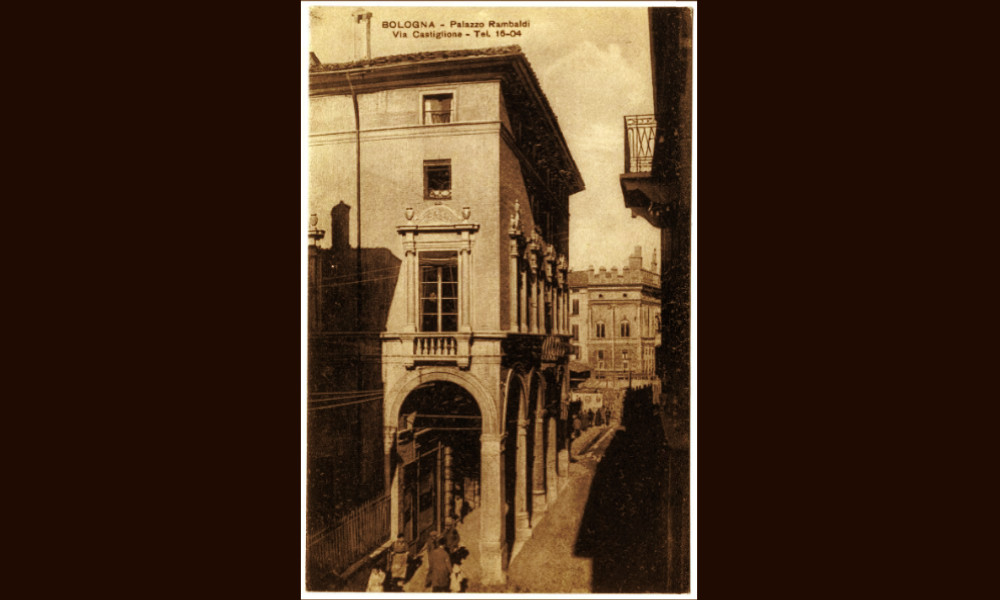
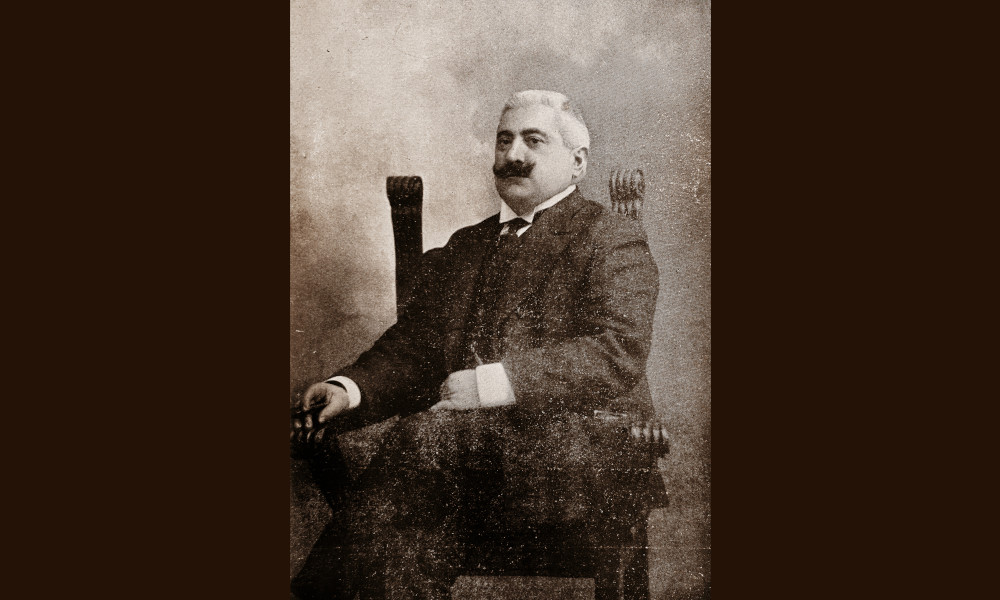
DIDASCALIE fix

diff --git a/html/dettaglio_DI_I.html b/html/dettaglio_DI_I.html
@@ -1,0 +1,183 @@
+<!DOCTYPE html>
+<html lang="it">
+  <head>
+    <meta charset="UTF-8" />
+    <meta name="viewport" content="width=device-width, initial-scale=1.0" />
+    <title>Di Castro Eugenio | Mercato dell'arte</title>
+    <meta name="description" content="Di Castro Eugenio: scheda dell'entità antiquariale nel progetto Mercato dell'arte della Fondazione Federico Zeri." />
+    <link rel="preconnect" href="https://fonts.googleapis.com" />
+    <link rel="preconnect" href="https://fonts.gstatic.com" crossorigin="" />
+    <link href="https://fonts.googleapis.com/css2?family=Playfair+Display:ital,wght@0,400;0,600;0,700;1,400&family=DM+Sans:ital,wght@0,300;0,400;0,500;0,600;1,300;1,400&display=swap" rel="stylesheet" />
+    <link rel="stylesheet" href="https://unpkg.com/leaflet@1.7.1/dist/leaflet.css" />
+    <link rel="stylesheet" href="https://unpkg.com/leaflet.markercluster/dist/MarkerCluster.css" />
+    <link rel="stylesheet" href="https://unpkg.com/leaflet.markercluster/dist/MarkerCluster.Default.css" />
+    <link rel="stylesheet" href="../../css/tokens.css" />
+    <link rel="stylesheet" href="../../css/styles-dettaglioAntiquario.css" />
+    <script type="text/javascript" src="https://cdn.jsdelivr.net/npm/jquery@3.2.1/dist/jquery.min.js"></script>
+    <script type="text/javascript" src="https://unpkg.com/leaflet@1.7.1/dist/leaflet.js"></script>
+    <script type="text/javascript" src="https://unpkg.com/leaflet.markercluster/dist/leaflet.markercluster.js"></script>
+    <script src="../../script/menu.js" defer=""></script>
+    <script type="text/javascript" src="../../script/galleria.js"></script>
+    <script type="text/javascript" src="../../script/albero-familiare.js"></script>
+    <script type="text/javascript" src="../../script/dettaglioAntiquari.js"></script>
+    <script type="text/javascript" src="../../script/mappaDettaglio.js"></script>
+  </head>
+  <body>
+    <header>
+      <div class="header-container">
+        <a class="marchio" href="../../index.html">Mercato dell'arte</a>
+        <button class="menu-toggle" type="button" aria-label="Apri menu">&#9776;</button>
+        <div class="testata-destra">
+          <nav>
+            <ul class="menu">
+              <li>
+                <a href="../progetto.html">Progetto</a>
+              </li>
+              <li>
+                <a href="../antiquari.html">Antiquari</a>
+              </li>
+              <li>
+                <a href="../luoghi.html">Luoghi</a>
+              </li>
+              <li>
+                <a href="../eventi.html">Eventi</a>
+              </li>
+              <li>
+                <a href="../persone.html">Persone</a>
+              </li>
+              <li>
+                <a href="../bibliografia.html">Bibliografia</a>
+              </li>
+            </ul>
+          </nav>
+          <span class="testata-filo"></span>
+          <a class="testata-ente" href="https://fondazionezeri.unibo.it/it/homepage" target="_blank" rel="noopener" title="Fondazione Federico Zeri, Università di Bologna">
+            <img src="../../img/homepage/logo.png" alt="Fondazione Federico Zeri" />
+          </a>
+        </div>
+      </div>
+    </header>
+    <main class="scheda">
+      <div class="scheda-torna">
+        <a href="../antiquari.html">&#8592; Tutti gli antiquari</a>
+      </div>
+      <section class="scheda-fascia">
+        <div class="scheda-fascia-testo">
+          <h1 class="scheda-nome">Di Castro Eugenio</h1>
+          <p class="scheda-sottotitolo">Roma, entità attiva dal 1932 al 2006</p>
+        </div>
+        <div class="slider-container">
+          <div class="slider">
+            <div class="slide">
+              <img src="../../img/slider-antiquari/DI_I_img1.jpg" alt="L'antiquario &quot;romanista&quot; Eugenio Di Castro negli anni Sessanta" />
+              <div class="caption">L'antiquario "romanista" Eugenio Di Castro negli anni Sessanta</div>
+            </div>
+            <div class="slide">
+              <img src="../../img/slider-antiquari/DI_I_img2.jpg" alt="Il ministro del turismo Folchi saluta Eugenio Di Castro" />
+              <div class="caption">Il ministro del turismo Folchi saluta Eugenio Di Castro</div>
+            </div>
+          </div>
+          <button class="prev" type="button" aria-label="Fotografia precedente">&#10094;</button>
+          <button class="next" type="button" aria-label="Fotografia successiva">&#10095;</button>
+          <button class="gal-zoom" type="button" aria-label="Ingrandisci la fotografia">
+            <svg viewBox="0 0 24 24" fill="none" stroke="currentColor" stroke-width="2" stroke-linecap="round" aria-hidden="true"><circle cx="11" cy="11" r="7"></circle><path d="M20 20l-4.3-4.3M11 8v6M8 11h6"></path></svg>
+          </button>
+        </div>
+      </section>
+      <section class="scheda-dati">
+        <dl class="scheda-record">
+          <dt>PERSONE</dt>
+          <dd>Eugenio Di Castro, 1890–1976, antiquario<br>Nicola Di Castro, antiquario<br>Angelo Di Castro, antiquario<br>Angelo Di Castro, 1925–2012, antiquario</dd>
+          <dt>IN CATALOGO</dt>
+          <dd><a href="https://catalogo.fondazionezeri.unibo.it/ricerca.v2.jsp?decorator=layout_resp&apply=true&percorso_ricerca=OA&sortby=LOCALIZZAZIONE&batch=10&view=list&locale=it&PVCS_PVCR_PVCP_PVCC_PVCL_LDCN_PRVS_PRVR_PRVP_PRVC_PRVL_PRCD=Di%20Castro&page=1&filtroprovenienza_OA=4531%7C8268" class="linkBio" target="_blank">Opere transitate, catalogo della Fondazione Zeri &#8594;</a></dd>
+        </dl>
+      </section>
+      <nav class="scheda-tab" aria-label="Sezioni della scheda">
+        <button class="tab active" type="button" data_content="Bio">
+          Dati biografici
+        </button>
+        <button class="tab" type="button" data_content="Persone">
+          Albero familiare
+          <span class="tab-num">3</span>
+        </button>
+        <button class="tab" type="button" data_content="Localizzazioni">
+          Luoghi
+          <span class="tab-num">4</span>
+        </button>
+        <button class="tab" type="button" data_content="Relazioni">
+          Relazioni
+          <span class="tab-num">1</span>
+        </button>
+        <button class="tab" type="button" data_content="Eventi">
+          Eventi
+          <span class="tab-num">1</span>
+        </button>
+        <button class="tab" type="button" data_content="Bibliografia">
+          Bibliografia
+          <span class="tab-num">2</span>
+        </button>
+      </nav>
+      <div class="scheda-contenuto">
+        <div id="Bio" class="content active-content">
+          <p>Eugenio Di Castro (1890-1976) nacque a Roma, in Trastevere, e apprese il mestiere di antiquario dal padre Nicola e dal nonno Angelo. Richiamato nel 1910, prese parte alla guerra italo-turca e combatté nella Prima Guerra mondiale. Tornato a Roma nel 1920, poté riprendere a tempo pieno la sua attività di mercante d’arte, con un negozio prima in via dei Greci, poi in via del Babuino 82. Nel corso degli anni successivi, strinse rapporti con molti degli intellettuali e artisti che animavano il Circolo Artistico di via Margutta e il celebre caffè Greco di via Condotti, entrando poi a far parte del Gruppo dei Romanisti, fondato nel 1929. Il Gruppo, dedito allo studio e alla valorizzazione della città di Roma e della romanità, si riuniva proprio nello studio di uno dei suoi fondatori, l’antiquario Augusto Jandolo, nella stessa via Margutta. Con quest’ultimo, Di Castro strinse un’amicizia molto stretta, tanto da essere ricordato come un compagno fraterno “anima di artista, cuore di romano autentico” nel volume di memorie “Aneddotica” pubblicato da Jandolo nel 1949.</p>
+          <p>Nel 1932 Eugenio Di Castro trasferì l’attività al civico 92 a/b della stessa via del Babuino, nel palazzo che il mosaicista Giacomo Raffaelli aveva fatto progettare a Giuseppe Valadier e negli ambienti per anni occupati dalla galleria degli Jandolo. Il contesto vivacemente colto e cosmopolita in cui era inserito lo mise in contatto con personaggi di alto rango, dalla Famiglia Reale italiana a Gabriele D’Annunzio.</p>
+          <p>L’attenzione verso la città di Roma, si manifestò, lungo tutta la sua esistenza, con numerose donazioni di dipinti, sculture e oggetti d’arte, operate in favore di Palazzo Braschi, Palazzo Venezia, il Museo degli strumenti musicali e tante altre raccolte cittadine. Fu tra i fondatori dell’Associazione Amici dei Musei di Roma, continuando a collaborare come consigliere per tutta la vita.</p>
+          <p>Scrisse “Ricordi dei vecchi rioni romani” e l’autobiografia “Una vita”, oltre a numerosi articoli per la “Strenna dei Romanisti”, “L’Urbe” e il “Bollettino dei Musei di Roma”, quasi tutti dedicati al mondo dell’antiquariato, con particolare predilezione per il Rinascimento considerato in tutti i suoi aspetti, dal mobile intarsiato al parato ricamato, dal bronzo al vetro soffiato, elementi questi che gli permisero di ricevere premi in diverse mostre, come quella allestita nel Castello di Zagarolo dalla principessa Pallavicini nel 1964 o in quella dedicata agli strumenti musicali organizzata dall’Accademia di santa Cecilia a via del Babuino nel 1963. Altro interesse particolare fu il Settecento romano, interesse poi trasmesso anche al figlio Angelo.</p>
+          <p>Dopo la morte di Eugenio, i figli Nicola ed Angelo continuarono l’attività paterna. Angelo Di Castro (Roma, 1925–2012) aprì successivamente un’attività in proprio con la moglie Lucilla nella galleria di via Alibert 20-23, nello stesso Palazzo Raffaelli, che fu assiduamente frequentata anche da Federico Zeri. La galleria chiuse alla morte di Lucilla Delfini Di Castro, nel 2006.</p>
+          <p>Il Settecento romano fu la passione di Angelo, soprattutto per quanto riguarda la pittura e la scultura; a lui si devono attribuzioni e scoperte notevoli, basti ricordare il busto in marmo del cardinale Francesco Barberini, provenienza principi Del Drago, già attribuito a Lorenzo Ottoni, riconosciuto opera di Bernini e venduto allo Stato. Come collezionista insieme alla moglie amò il vetro soffiato, raccogliendo nel tempo rarità di grande interesse. Lucilla, che aveva appreso dal suocero i segreti dell’arte tessile, divenne un’esperta del tessuto antico e del merletto: il Padre Abate di Montecassino la chiamò a organizzare il settore dedicato a quest’arte nel nuovo allestimento del museo dell’Abbazia di Monte Cassino.</p>
+        </div>
+        <div id="Persone" class="content">
+          <div class="af-intestazione">
+            <h2>Relazioni familiari</h2>
+            <div id="af-legenda" class="af-legenda"></div>
+          </div>
+          <div id="albero-genealogico"></div>
+        </div>
+        <div id="Localizzazioni" class="content">
+          <section id="map">
+            <div id="chartdiv"></div>
+          </section>
+        </div>
+        <div id="Relazioni" class="content">
+          <h2>Collaboratori</h2>
+          <ul>
+            <li>Federico Zeri (storico dell'arte)</li>
+          </ul>
+        </div>
+        <div id="Eventi" class="content">
+          <h2>Eventi significativi nell'attività antiquariale</h2>
+          <ul>
+            <li>1971 - <i>Eugenio Di Castro, “Una vita”</i>: Eugenio Di Castro pubblica la propria biografia con molti passi dedicati alla sua professione di antiquario</li>
+          </ul>
+        </div>
+        <div id="Bibliografia" class="content">
+          <h2>Bibliografia essenziale</h2>
+          <ul>
+            <li>Di Castro F. (2019), <i>I Romanisti e l’antiquariato</i>, in "Il gruppo dei romanisti ieri, oggi e domani: una tradizione che si rinnova", atti del convegno, Roma, 2019</li>
+            <li>Di Castro F. (s.d.), <i>Biografia di Eugenio Di Castro (Roma 1890 – 1976)</i></li>
+          </ul>
+        </div>
+      </div>
+      <nav class="scheda-sfoglia" aria-label="Altre schede">
+        <a href="dettaglio_DI.html">&#8592; Di Castro</a>
+        <a href="dettaglio_FE.html">Ferroni &#8594;</a>
+      </nav>
+    </main>
+    <footer>
+      <div class="footer-container">
+        <div class="footer-ente">
+          <a href="https://fondazionezeri.unibo.it/it/homepage" target="_blank" rel="noopener">
+            <img src="../../img/homepage/logo-negativo.png" alt="Fondazione Federico Zeri" />
+          </a>
+          <p>Progetto della <a href="https://fondazionezeri.unibo.it/it/homepage" target="_blank" rel="noopener">Fondazione Federico Zeri</a>, Università di Bologna.</p>
+        </div>
+        <div class="footer-left">
+          <p>Licenza dati e immagini: <img id="license.png" src="../../img/homepage/license.png" alt="License"></p>
+        </div>
+        <div class="footer-right">
+          <p><a href="../../html/crediti.html">Crediti</a> | <a href="../../html/documentazione.html">Documentazione</a></p>
+        </div>
+      </div>
+    </footer>
+  </body>
+</html>
